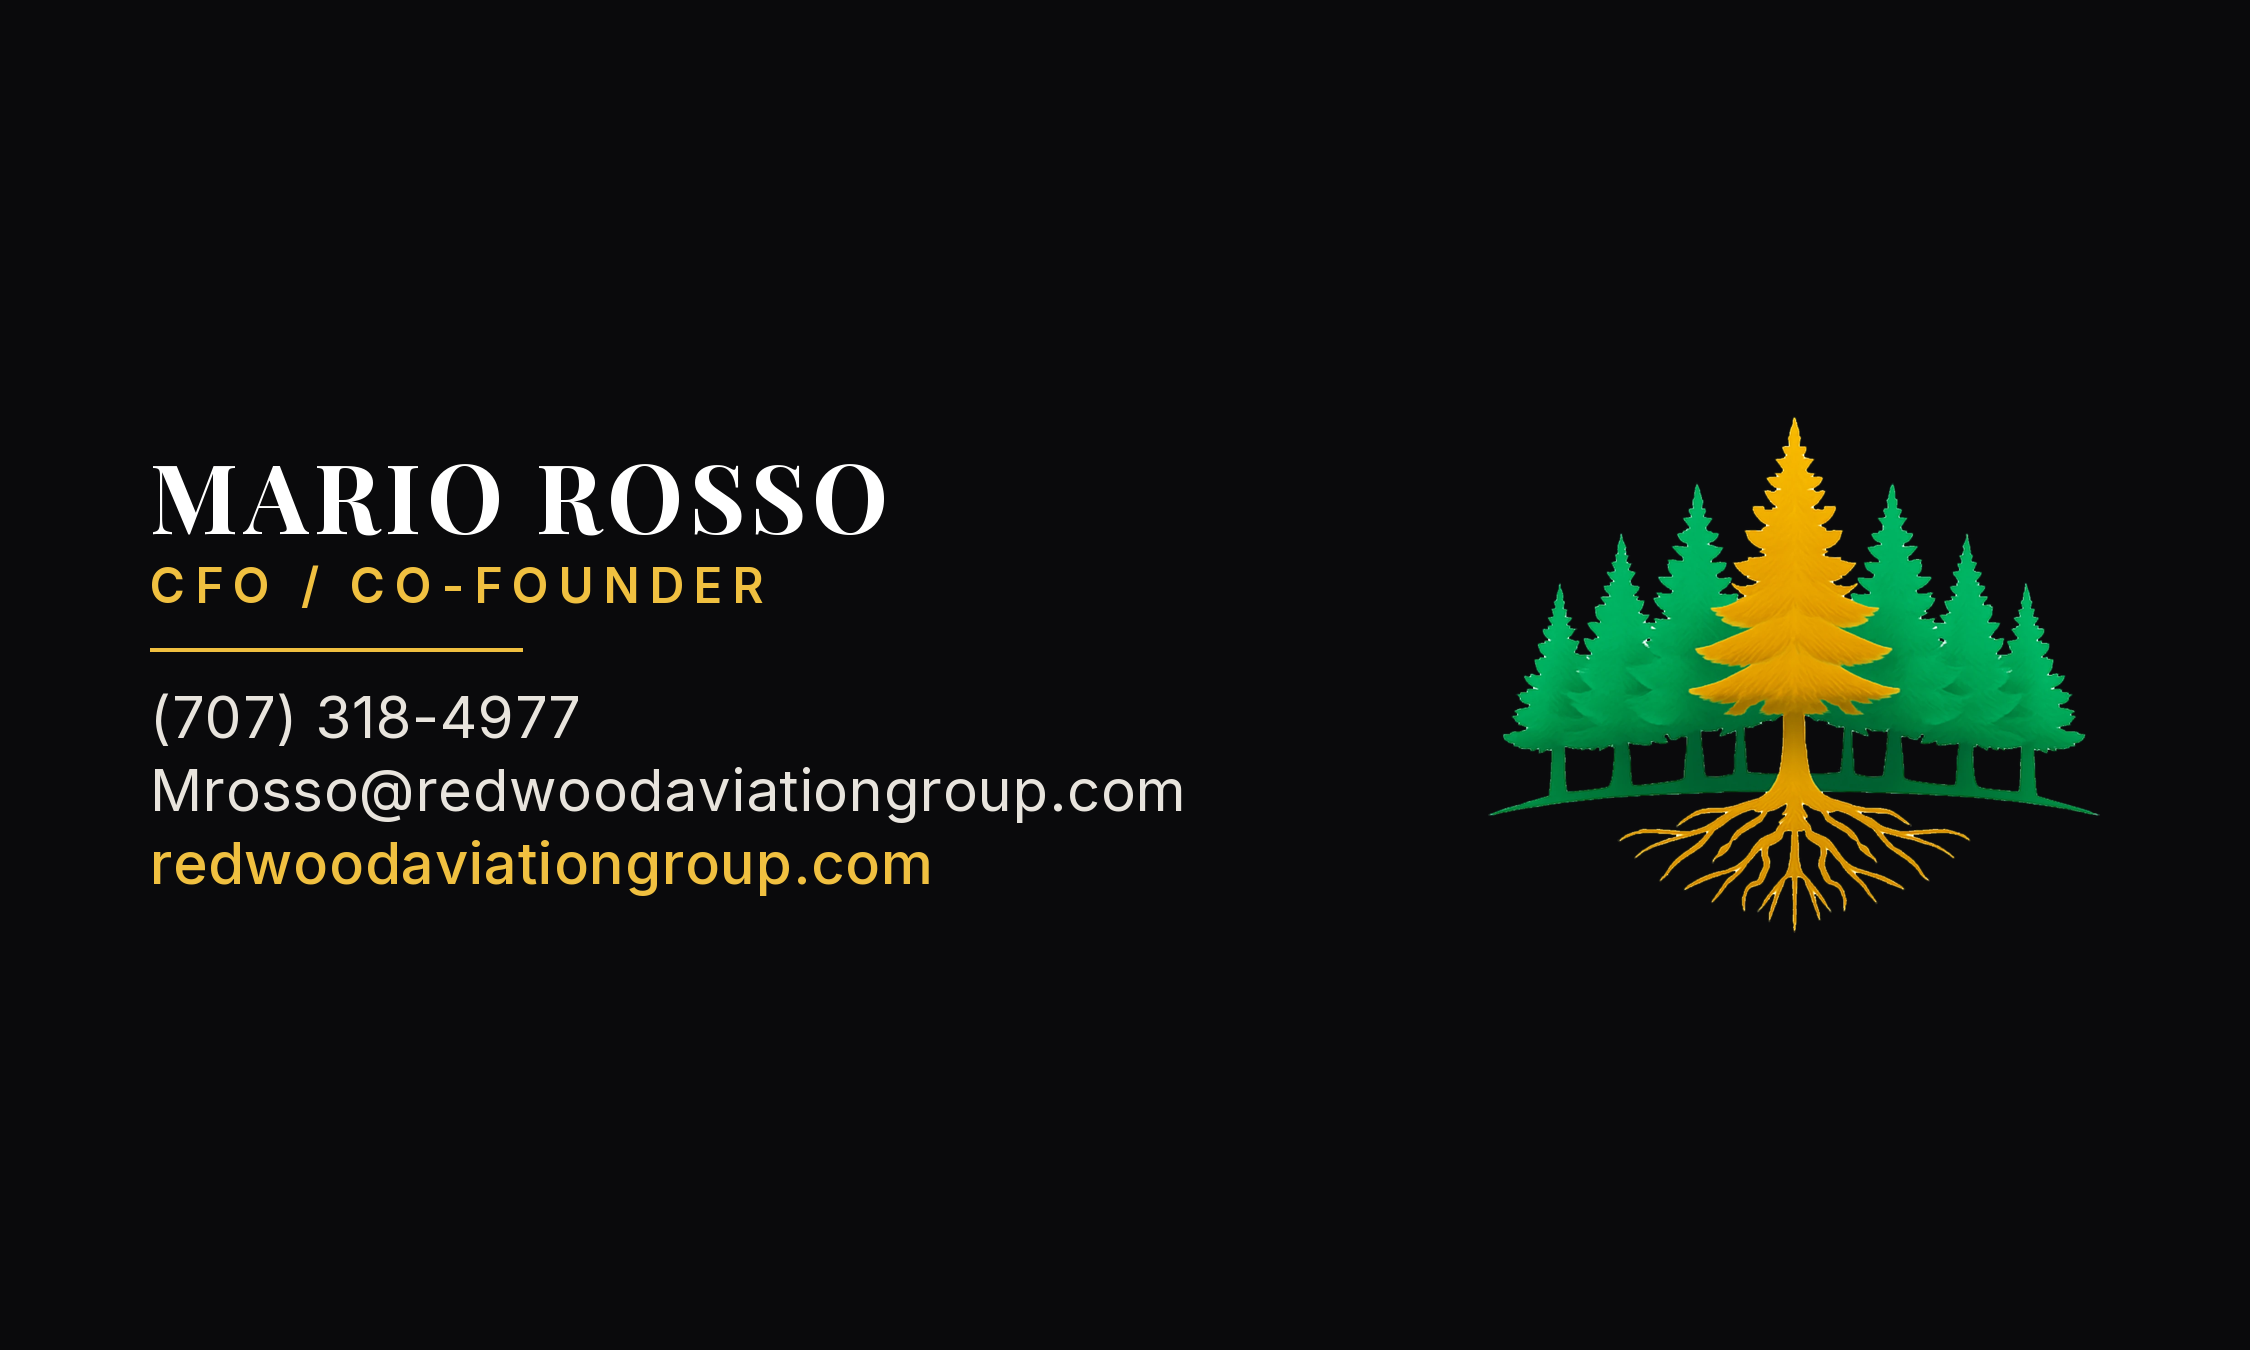
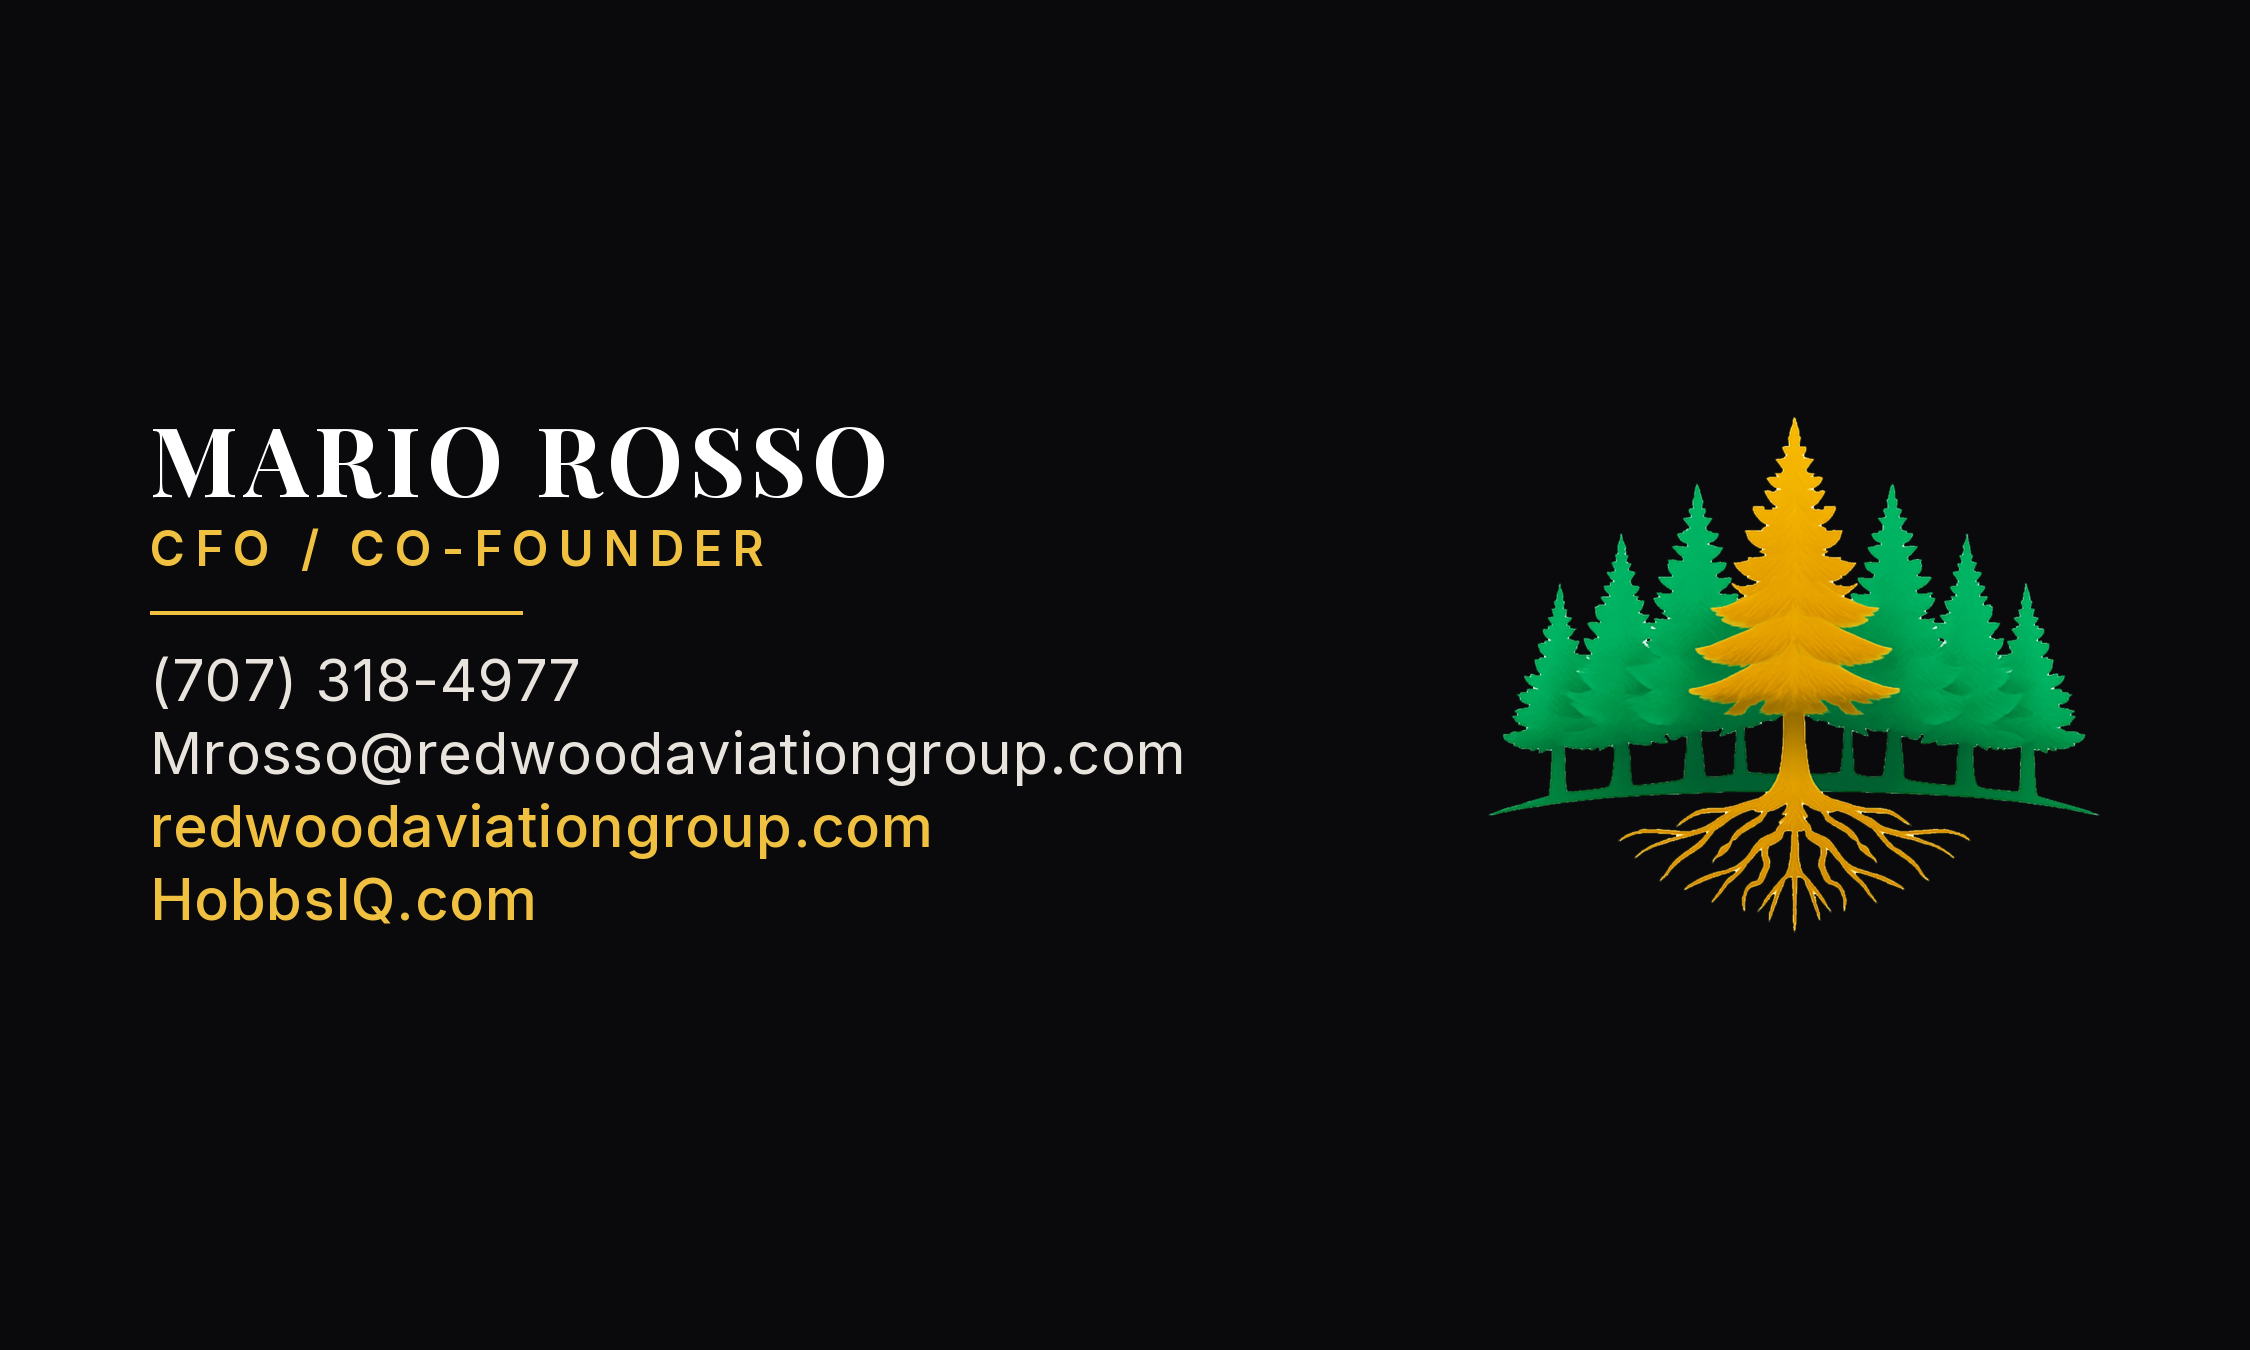
Add HobbsIQ.com to business cards
Both card fronts now list redwoodaviationgroup.com and HobbsIQ.com. The
contact block takes an arbitrary list of sites and recomputes its height, so
the layout stays vertically centered.

Also makes build-cards.py self-contained: the mark is read from
merch/print/mark-only.png in the repo rather than a temp file, and font and
preview paths come from FONT_DIR / GUIDE_DIR.

Claude-Session: https://claude.ai/code/session_01FPQbfY1KsD7hQipCM1oypM

Changed region(s): [[0.0622, 0.3111, 0.5289, 0.6844]]

diff --git a/merch/cards/build-cards.py b/merch/cards/build-cards.py
@@ -1,17 +1,33 @@
 """Build Redwood Aviation Group business cards (3.5x2in, 0.125in bleed, 600 DPI).
 
-Fonts (SIL Open Font License, fetched to /tmp before running):
+Fonts (SIL Open Font License). Fetch once into a directory, then point FONT_DIR
+at it (defaults to /tmp):
 
   curl -sSL -o /tmp/PlayfairDisplay.ttf \
     "https://raw.githubusercontent.com/google/fonts/main/ofl/playfairdisplay/PlayfairDisplay%5Bwght%5D.ttf"
   curl -sSL -o /tmp/Inter.ttf \
     "https://raw.githubusercontent.com/google/fonts/main/ofl/inter/Inter%5Bopsz,wght%5D.ttf"
 
+Artwork is read from the repo (merch/print/), so this script needs no other
+external files.
+
 Usage:
   python3 build-cards.py '[{"slug":"rob","name":"...","title":"...",
-                            "phone":"...","email":"..."}]'
+                            "phone":"...","email":"...",
+                            "sites":["redwoodaviationgroup.com","HobbsIQ.com"]}]'
+
+  FONT_DIR   override font location (default /tmp)
+  GUIDE_DIR  where to write trim/safe-area preview copies (default /tmp)
 """
+import os
+from pathlib import Path
 from PIL import Image, ImageDraw, ImageFont
+
+REPO  = Path(__file__).resolve().parents[2]
+ART   = REPO/"merch"/"print"
+OUT   = REPO/"merch"/"cards"
+FONTS = Path(os.environ.get("FONT_DIR", "/tmp"))
+GUIDE = Path(os.environ.get("GUIDE_DIR", "/tmp"))
 
 DPI   = 600
 PT    = DPI/72.0
@@ -23,7 +39,7 @@ SAFE  = BLEED + int(0.125*DPI)         # 150px from canvas edge
 BLACK=(10,10,12,255); GOLD=(240,192,64,255); WHITE=(255,255,255,255)
 INK=(232,228,221,255); SOFT=(150,146,140,255)
 
-PF="/tmp/PlayfairDisplay.ttf"; IN="/tmp/Inter.ttf"
+PF=str(FONTS/"PlayfairDisplay.ttf"); IN=str(FONTS/"Inter.ttf")
 def playfair(pt,w=700):
     f=ImageFont.truetype(PF,int(round(pt*PT))); f.set_variation_by_axes([w]); return f
 def inter(pt,w=400):
@@ -39,8 +55,8 @@ def tracked(d,x,base,t,f,tr,fill,anchor="l"):
     return w
 def cap(f): b=f.getbbox("H"); return b[3]-b[1]
 
-mark=Image.open("/tmp/logo-2000-transparent.png").convert("RGBA")
-lockh=Image.open("/home/user/redwood-aviation-group/merch/print/lockup-horizontal.png").convert("RGBA")
+mark  = Image.open(ART/"mark-only.png").convert("RGBA")
+lockh = Image.open(ART/"lockup-horizontal.png").convert("RGBA")
 
 def fit_w(img,inches):
     w=int(inches*DPI); return img.resize((w,round(img.height*w/img.width)),Image.LANCZOS)
@@ -63,12 +79,11 @@ def build_back():
     return c
 
 # ---------------- FRONT ----------------
-def build_front(name,title,phone,email,site="redwoodaviationgroup.com"):
+def build_front(name,title,phone,email,sites=("redwoodaviationgroup.com",)):
     c=Image.new("RGBA",(CW,CH),BLACK); d=ImageDraw.Draw(c)
     # mark, right side, vertically centered
     mk=fit_w(mark,1.02)
-    mx=CW-SAFE-mk.width
-    c.alpha_composite(mk,(mx,(CH-mk.height)//2))
+    c.alpha_composite(mk,(CW-SAFE-mk.width,(CH-mk.height)//2))
 
     x=SAFE
     fn=playfair(11.5,700); ft=inter(5.8,600); fc=inter(6.9,400); fs=inter(6.9,500)
@@ -76,7 +91,9 @@ def build_front(name,title,phone,email,site="redwoodaviationgroup.com"):
     line_gap=int(0.052*DPI)
     rule_gap=int(0.075*DPI)
 
-    block_h = cn + int(0.055*DPI) + ct + rule_gap + 4 + rule_gap + cc*3 + line_gap*2
+    lines=[(phone,fc,INK),(email,fc,INK)]+[(s,fs,GOLD) for s in sites]
+    n=len(lines)
+    block_h = cn + int(0.055*DPI) + ct + rule_gap + 4 + rule_gap + cc*n + line_gap*(n-1)
     y = (CH-block_h)//2 + cn
 
     tracked(d,x,y,name.upper(),fn,0.055*fn.size,WHITE)
@@ -85,7 +102,7 @@ def build_front(name,title,phone,email,site="redwoodaviationgroup.com"):
     y += rule_gap
     d.rectangle([x,y,x+int(0.62*DPI),y+3],fill=GOLD)
     y += 3 + rule_gap + cc
-    for txt,fnt,col in ((phone,fc,INK),(email,fc,INK),(site,fs,GOLD)):
+    for txt,fnt,col in lines:
         tracked(d,x,y,txt,fnt,0.012*fnt.size,col)
         y += cc + line_gap
     return c
@@ -99,14 +116,14 @@ def guides(card):
 if __name__=="__main__":
     import sys, json
     people=json.loads(sys.argv[1])
-    out="/home/user/redwood-aviation-group/merch/cards"
-    back=build_back(); back.save(f"{out}/card-back.png")
+    GUIDE.mkdir(parents=True, exist_ok=True)
+    back=build_back(); back.save(OUT/"card-back.png")
+    guides(back).save(GUIDE/"guide-back.png")
     print("back:", back.size)
     for p in people:
-        slug=p["slug"]
-        fr=build_front(p["name"],p["title"],p["phone"],p["email"])
-        fr.save(f"{out}/card-front-{slug}.png")
-        guides(fr).save(f"/tmp/guide-{slug}.png")
-        print("front:",slug,fr.size)
-    guides(back).save("/tmp/guide-back.png")
+        fr=build_front(p["name"],p["title"],p["phone"],p["email"],
+                       p.get("sites",["redwoodaviationgroup.com"]))
+        fr.save(OUT/f"card-front-{p['slug']}.png")
+        guides(fr).save(GUIDE/f"guide-{p['slug']}.png")
+        print("front:",p["slug"],fr.size)
     print("canvas %dx%d px = %.2fx%.2f in @%d DPI (incl. bleed)"%(CW,CH,CW/DPI,CH/DPI,DPI))
